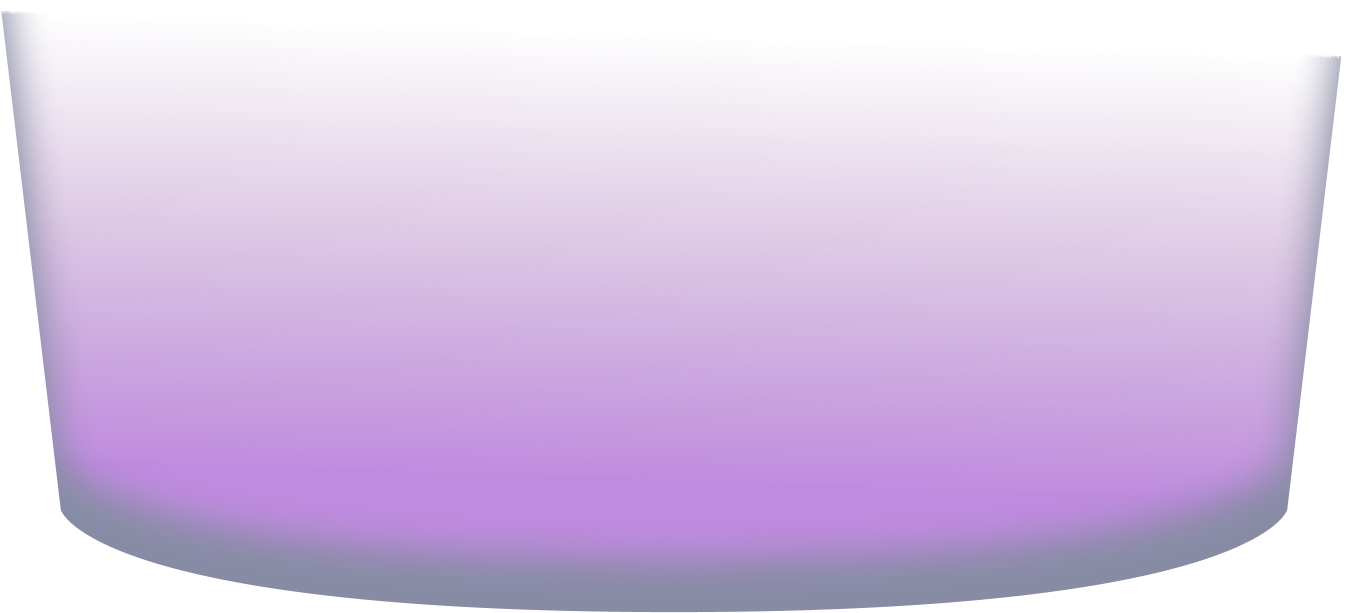
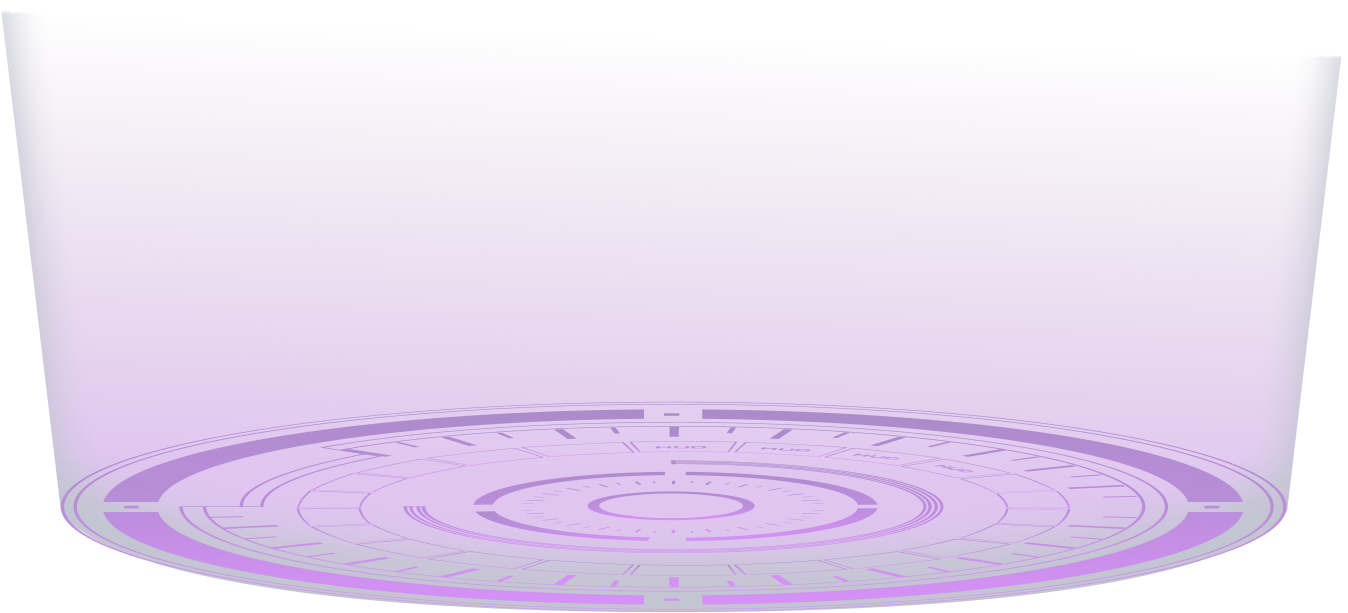
Add files via upload

diff --git a/src/Components/HomePage.jsx b/src/Components/HomePage.jsx
@@ -1,44 +1,38 @@
 import React, { useState, useEffect } from 'react';
-import './HomePage.css'; 
+import './HomePage.css';
 import congrats from './Images/congrats.png';
 import spinButton from './Images/spinButton.png';
 
 const HomePage = () => {
-  const [count1, setCount1] = useState(1);
-  const [count2, setCount2] = useState(2);
-  const [count3, setCount3] = useState(3);
-  const [count4, setCount4] = useState(4);
-  const [count5, setCount5] = useState(5);
-  const [count6, setCount6] = useState(6);
-
-  const [isGenerating, setIsGenerating] = useState(false);
-  const [showPrizeText, setShowPrizeText] = useState(false);
+  const [counts, setCounts] = useState([1, 2, 3, 4, 5, 6]);
+  const [isGenerating, setIsGenerating] = useState(false); // initial generating value as false at first
+  const [showPrizeText, setShowPrizeText] = useState(false); // 1st Prize text given false at initial stage
 
   useEffect(() => {
     let interval;
-
+    //setting interval for counter function
     if (isGenerating) {
       interval = setInterval(() => {
-        setCount1(generateRandom());
-        setCount2(generateRandom());
-        setCount3(generateRandom());
-        setCount4(generateRandom());
-        setCount5(generateRandom());
-        setCount6(generateRandom());
+        setCounts(counts.map(generateRandom));
       }, 500);
     }
 
     return () => {
       clearInterval(interval);
     };
-  }, [isGenerating]);
+  }, [isGenerating, counts]); //dependency array as generating and counts
 
-  const generateRandom = (maxLimit = 10) => {
+  //for getting random result inside 1 - 10, calling the following function
+  const generateRandom = (count) => {
+    return generateRandomCount();
+  };
+
+  const generateRandomCount = (maxLimit = 10) => {
     let rand = Math.random() * maxLimit;
     rand = Math.floor(rand);
     return rand;
   };
-
+  // after initializing first function and after specific timeout result with the text is shown after the folowing "getWinner" function
   const getWinner = () => {
     setIsGenerating(true);
 
@@ -51,14 +45,13 @@ const HomePage = () => {
   const countBoxStyle = {
     display: 'flex',
     justifyContent: 'space-between',
-    marginTop: '20px', 
+    marginTop: '50px',
   };
 
   const countStyle = {
-    flex: '1',
     textAlign: 'center',
-    border: '1px solid #9950b9', 
-    padding: '10px 15px', 
+    border: '1px solid #9950b9',
+    padding: '10px 15px',
     color: '#ffffff',
     fontSize: '40px',
     fontWeight: '800',
@@ -70,32 +63,33 @@ const HomePage = () => {
     position: 'relative',
   };
 
-
   const prizeTextStyle = {
-    fontSize: '24px',
+    fontSize: '40px',
     fontWeight: 'bold',
     color: 'white',
     fontStyle: 'italic',
     animation: showPrizeText ? 'flashText 1s infinite' : 'none',
-}
-
+    position: 'absolute',
+    top: '-60px',
+    left: '50%',
+    transform: 'translate(-50%, 0%)',
+    transition: '.5s',
+  }
   return (
     <div className="main-container" style={backgroundImageStyle}>
-      <img src={congrats} alt="img" style={{'width':'80%'}} />
-      {showPrizeText && <div style={prizeTextStyle}>1ST PRIZE</div>}
+      <img src={congrats} alt="img" style={{ 'width': '80%' }} />
       <div id="countBox" className="count-box" style={countBoxStyle}>
-        <div className="count" style={countStyle}>{count1}</div>
-        <div className="count" style={countStyle}>{count2}</div>
-        <div className="count" style={countStyle}>{count3}</div>
-        <div className="count" style={countStyle}>{count4}</div>
-        <div className="count" style={countStyle}>{count5}</div>
-        <div className="count" style={countStyle}>{count6}</div>
+        {showPrizeText && <div style={prizeTextStyle}>1ST PRIZE</div>}
+        {counts.map((count, index) => (
+          <div key={index} className="count" style={countStyle}>
+            {count}
+          </div>
+        ))}
       </div>
       <div className="btn-winner" onClick={getWinner}>
-        <img src={spinButton} alt="Spin Button" style={{'width':'200px'}} />
+        <img src={spinButton} alt="Spin Button" style={{ 'width': '300px' }} />
       </div>
     </div>
   );
 };
-
 export default HomePage;

diff --git a/src/Components/HomePage.css b/src/Components/HomePage.css
@@ -6,7 +6,12 @@
     height: 100vh;
     background: url('Images/base.png') no-repeat center bottom;
     background-size: contain;
-    background-color: #07011f;
+  }
+
+  #root {
+    background: url('Images/sitebg.png') no-repeat center top;
+    background-size: cover;
+    background-color: #15064e;
   }
 
   .count-box {
@@ -30,6 +35,8 @@
     margin-top: 20px;
     border: 1px;
     text-align: center;
+    position: absolute;
+    bottom: 0;
   }
   
   /* //animation text// */
@@ -48,4 +55,23 @@
   background: url('Images/counter-bg.png') no-repeat center bottom;
   background-size: cover;
   padding-bottom: 30px;
+  position: relative;
+}
+#countBox:before {
+  content: '';
+  width: 140%;
+  height: 100%;
+  background: url('Images/count-bg.png') no-repeat center bottom;
+  background-size: cover;
+  padding-bottom: 30px;
+  position: relative;
+  position: absolute;
+  bottom: -30px;
+  left: 50%;
+  transform: translate(-50%, -0%);
+}
+#countBox .count {
+  position: relative;
+  z-index: 9;
+  width: 30px;
 }
